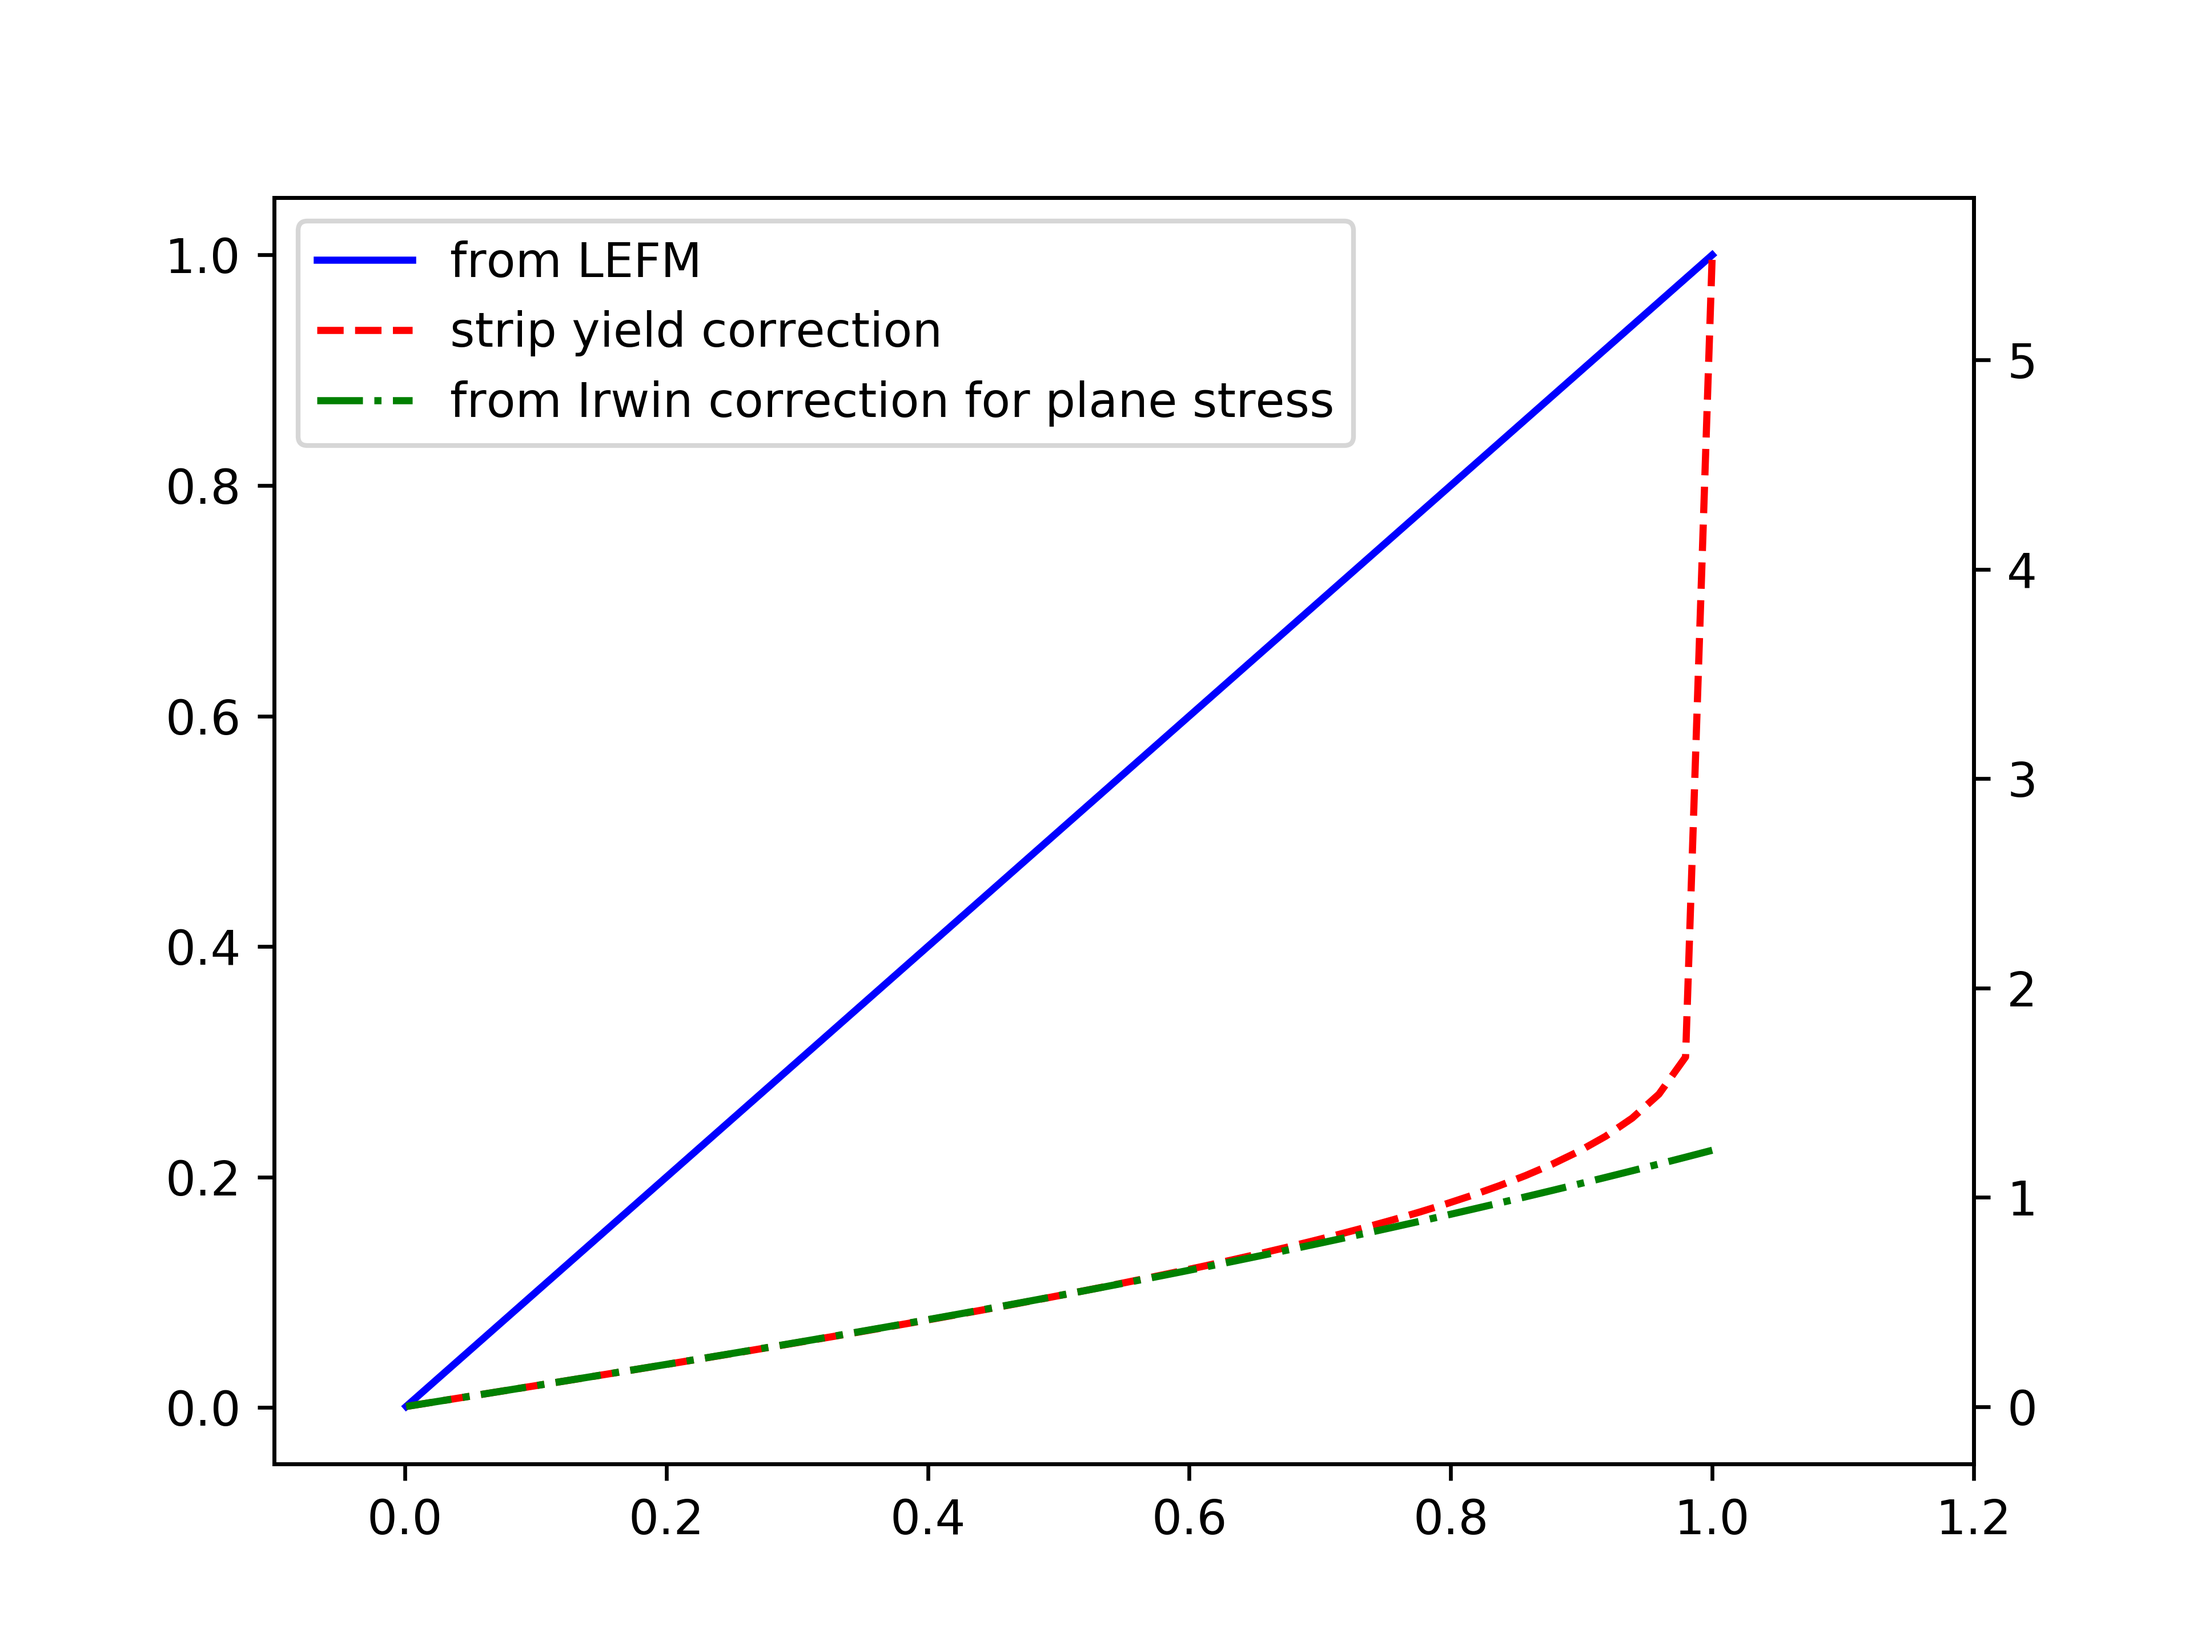
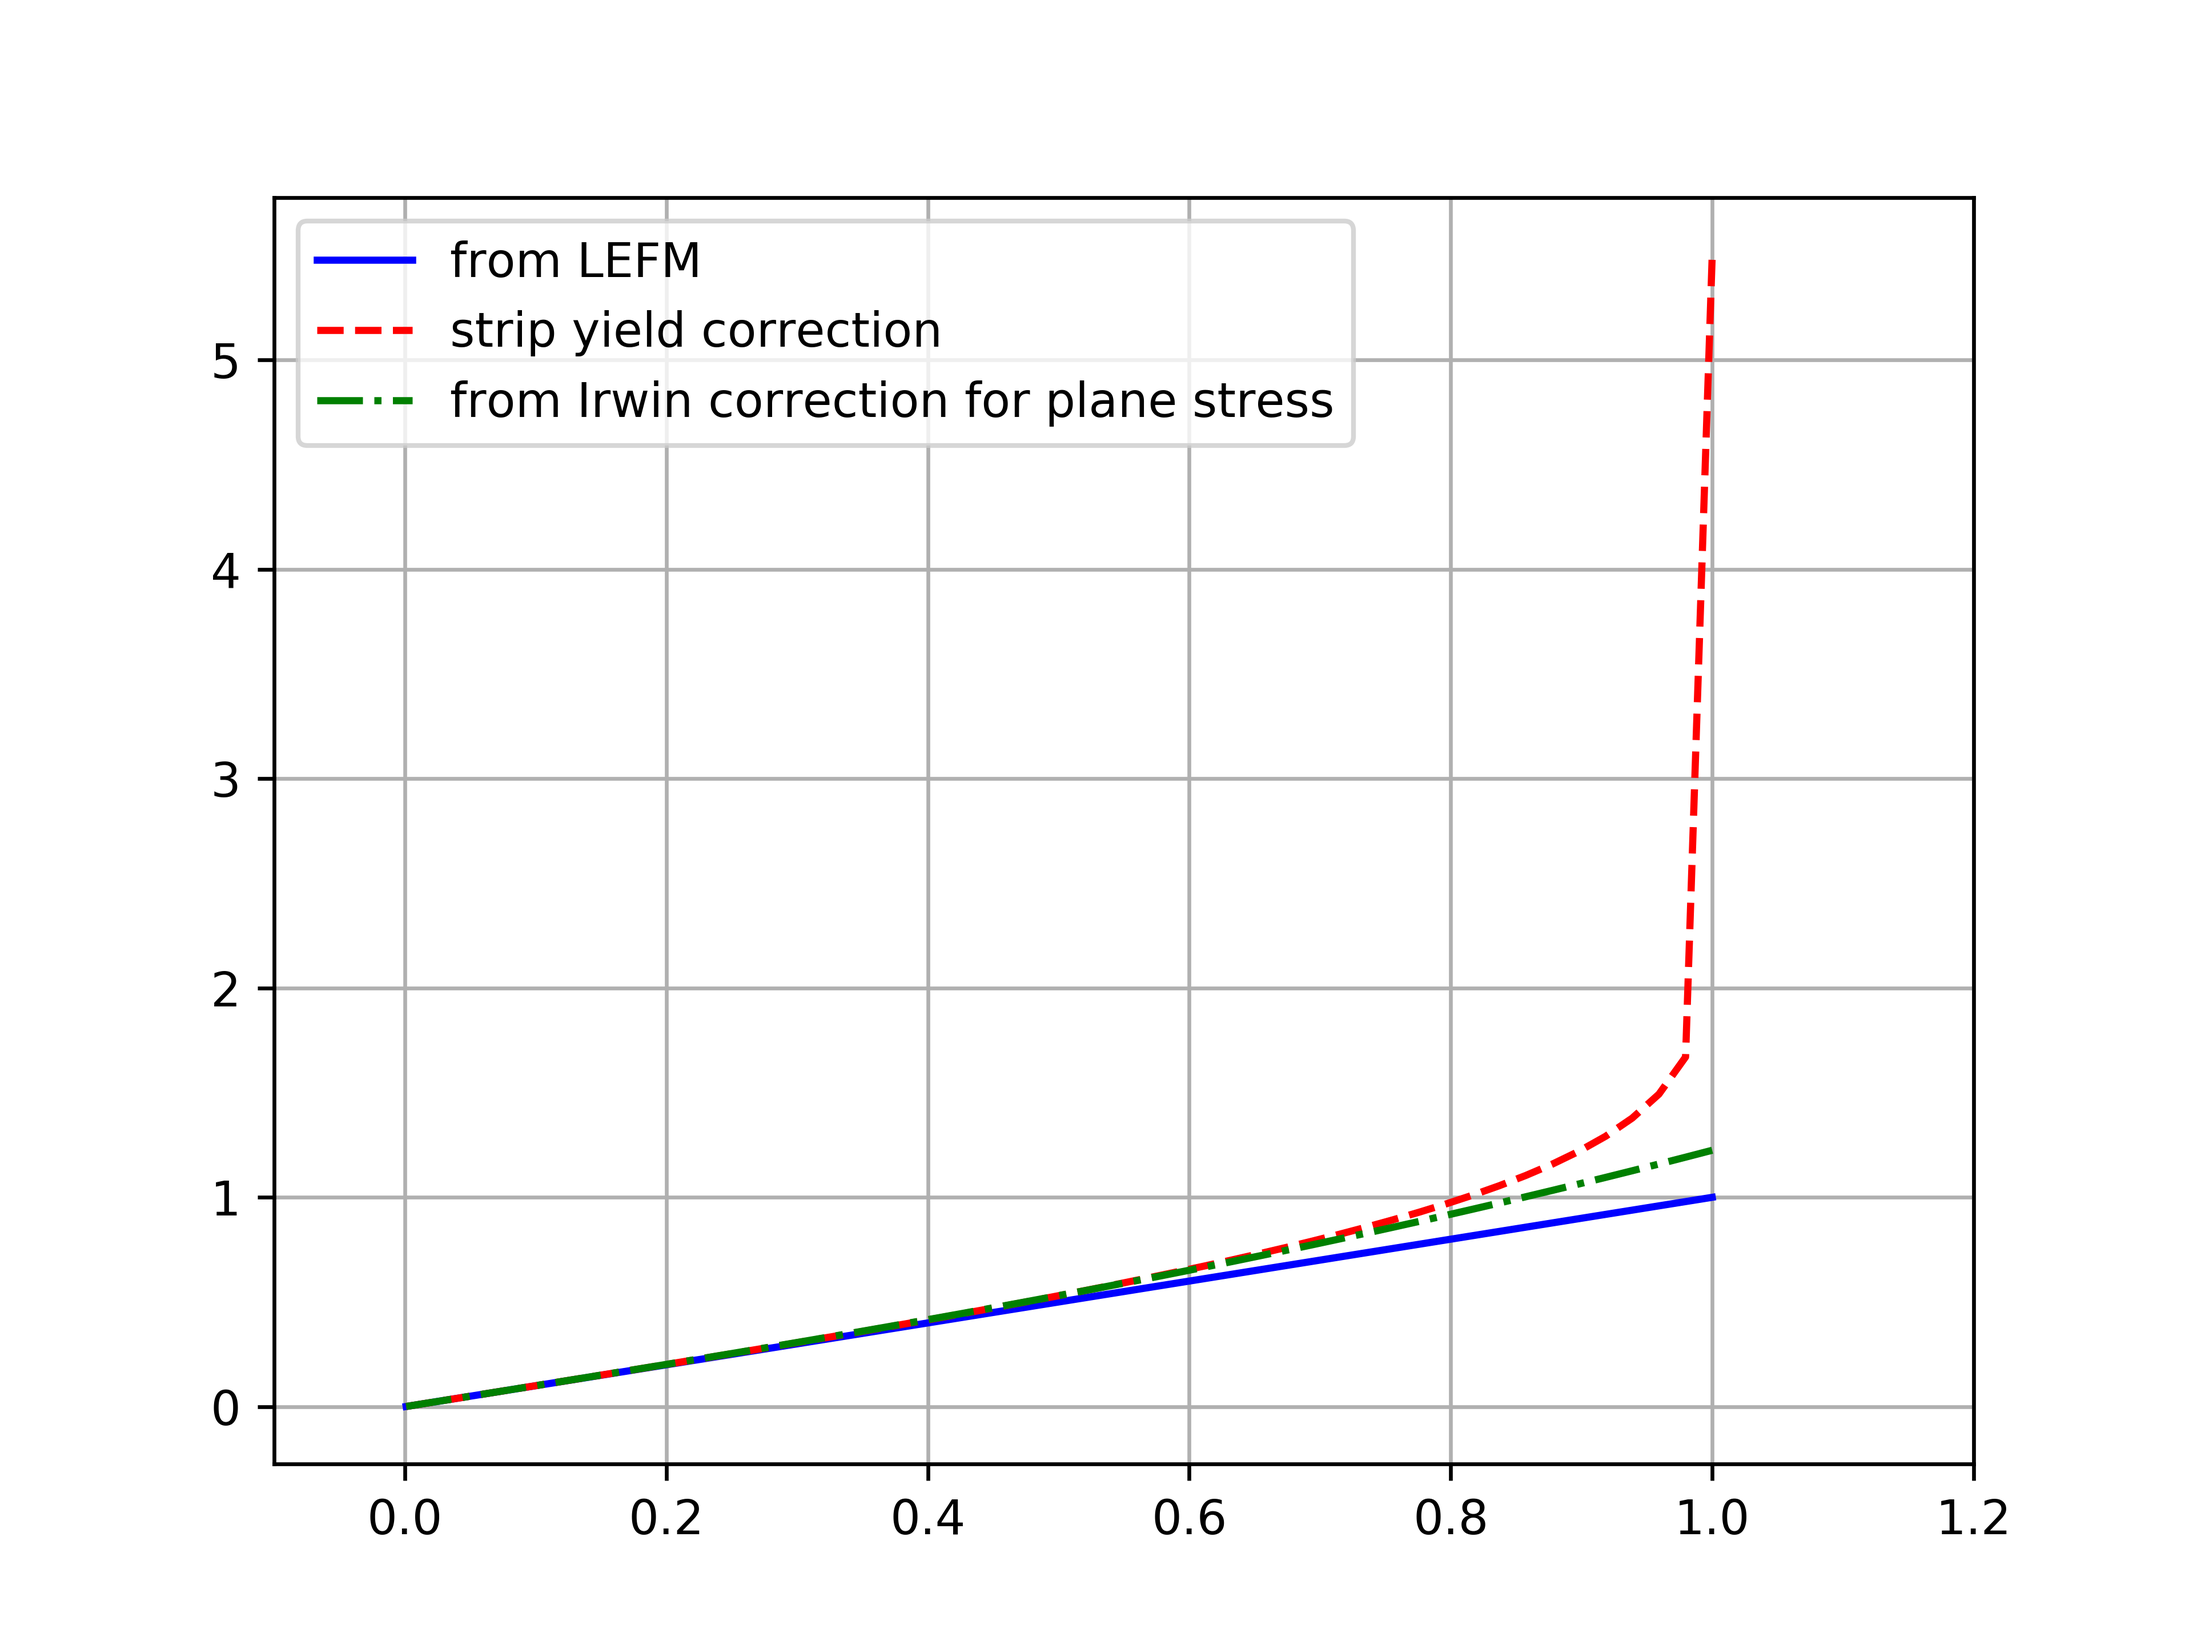
이미지 프로세서

diff --git a/graph.py b/graph.py
@@ -8,15 +8,16 @@ y2 = np.sqrt((8/np.power(np.pi, 2))*np.log(1/np.cos(np.pi*x/2)))
 y3 = x*np.sqrt(1+0.5*np.power(x,2))
 
 fig, ax1 = plt.subplots()
-ax2 = ax1.twinx()
+# ax2 = ax1.twinx()
 
 line1 = ax1.plot(x, y1, color='b', label="from LEFM", linestyle ='-')
-line2 = ax2.plot(x, y2, color='r', label="strip yield correction", linestyle ='--')
-line3 = ax2.plot(x, y3, color='g', label="from Irwin correction for plane stress", linestyle='-.')
+line2 = ax1.plot(x, y2, color='r', label="strip yield correction", linestyle ='--')
+line3 = ax1.plot(x, y3, color='g', label="from Irwin correction for plane stress", linestyle='-.')
 
 lines = line1 + line2 + line3
 labels = [l.get_label() for l in lines]
 plt.xlim(-0.1, 1.2)
+plt.grid()
 plt.legend(lines, labels, loc=0)
 plt.savefig('models\graph.png', dpi=600)
 plt.show()
